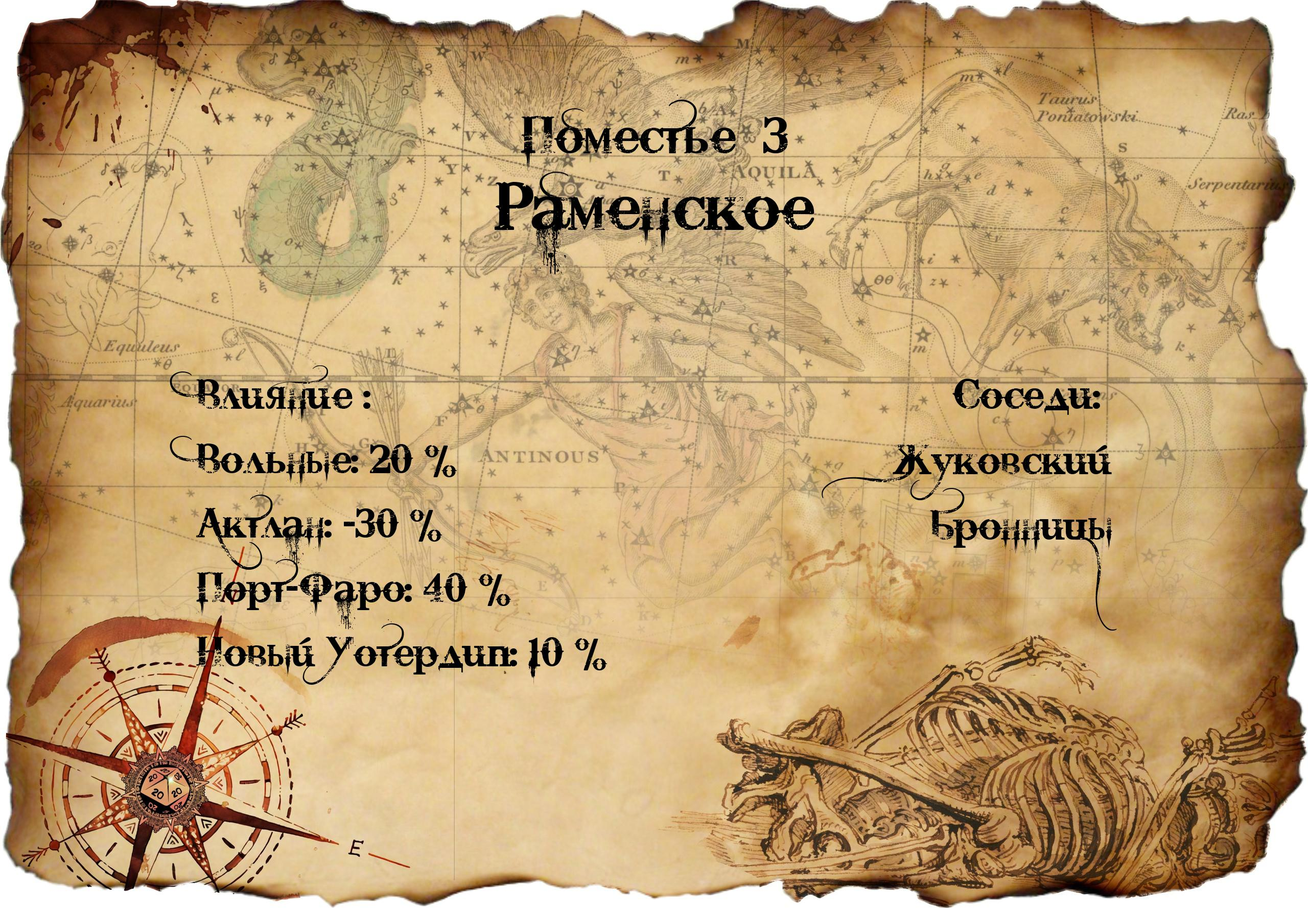
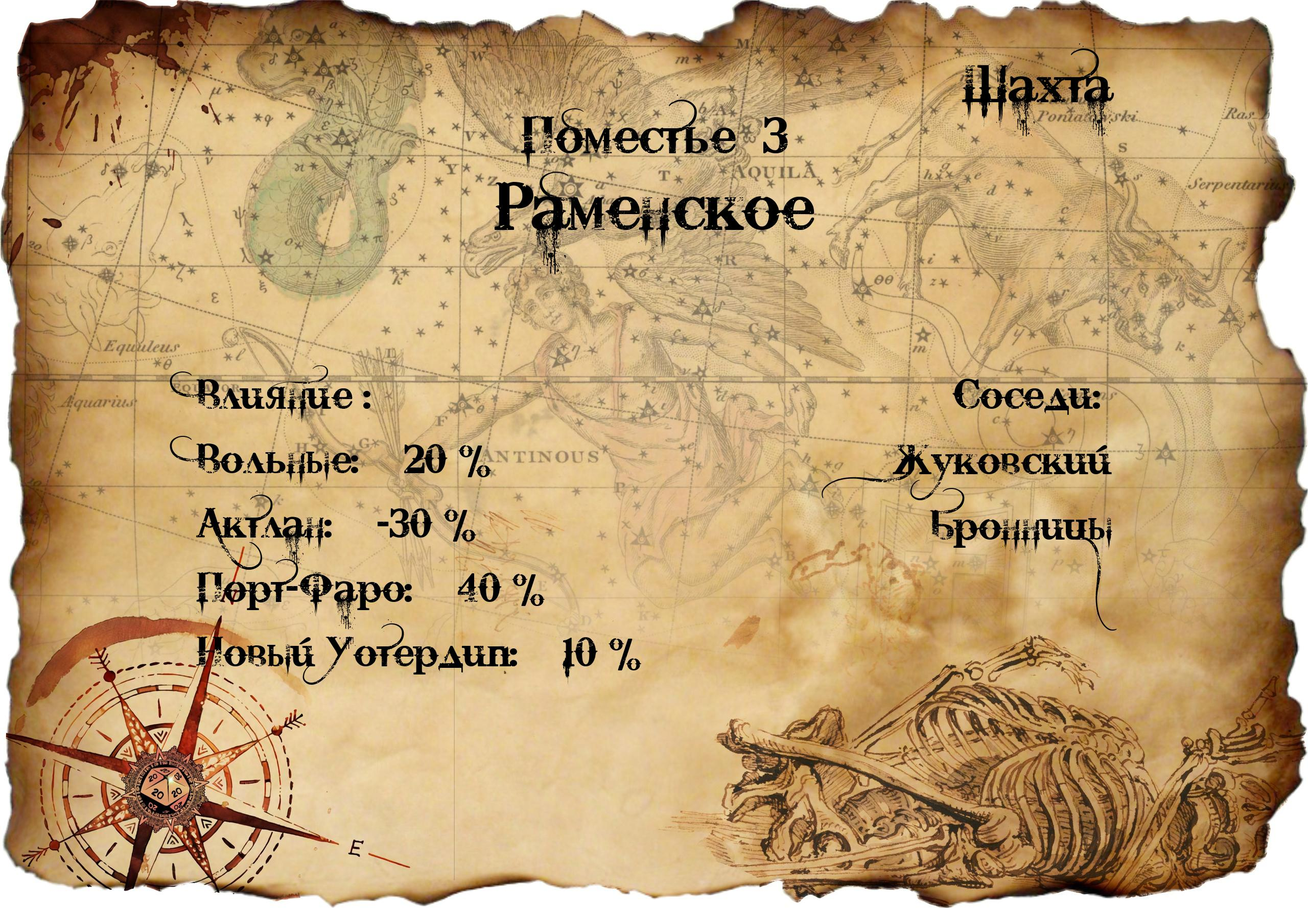
jhmjhmg

diff --git a/holde_gen.py b/holde_gen.py
@@ -80,9 +80,11 @@ class Holde():
         self.draw.multiline_text((self.width*0.85,800), "Соседи: \n" +  neigbours_list, spacing=6, font= self.regular_fnt,fill=(0,0,0,255), align='right', anchor="rs")
  
     def renderCorrupt(self):
-        self.draw.multiline_text((self.width*0.15,800), "Влияние : \n" +  "\n".join([f"{l}: {c} %" for l,c in zip(location_list, self.corrupt)]), font= self.regular_fnt,fill=(0,0,0,255), align='left', anchor="ls")
+        self.draw.multiline_text((self.width*0.15,800), "Влияние : \n" +  "\n".join([f"{l}:    {c} %" for l,c in zip(location_list, self.corrupt)]), font= self.regular_fnt,fill=(0,0,0,255), align='left', anchor="ls")
  
-
+    def renderLabel(self):
+        self.draw.text((self.width*0.85,200), str(self.label) , font=self.header_font,fill=(0,0,0,255), align='right', anchor="rs")
+    
 
 
     def renderToFile(self, filename = ""):
@@ -96,6 +98,7 @@ class Holde():
         self.renderHeader()
         self.renderNeighs()
         self.renderCorrupt()
+        self.renderLabel()
 
         with open(filename, "wb") as res:
             self.im.save(res, "JPEG")
@@ -119,7 +122,7 @@ def main():
     holde = Holde("Раменское",3,["Жуковский", "Бронницы"],[20,-30,40,10],"Шахта")
     holdef=  holde.renderToFile()
 
-    #saveFileToGD("result.jpg")
+    saveFileToGD(holdef)
 
 
 # if __name__ == 'main':
